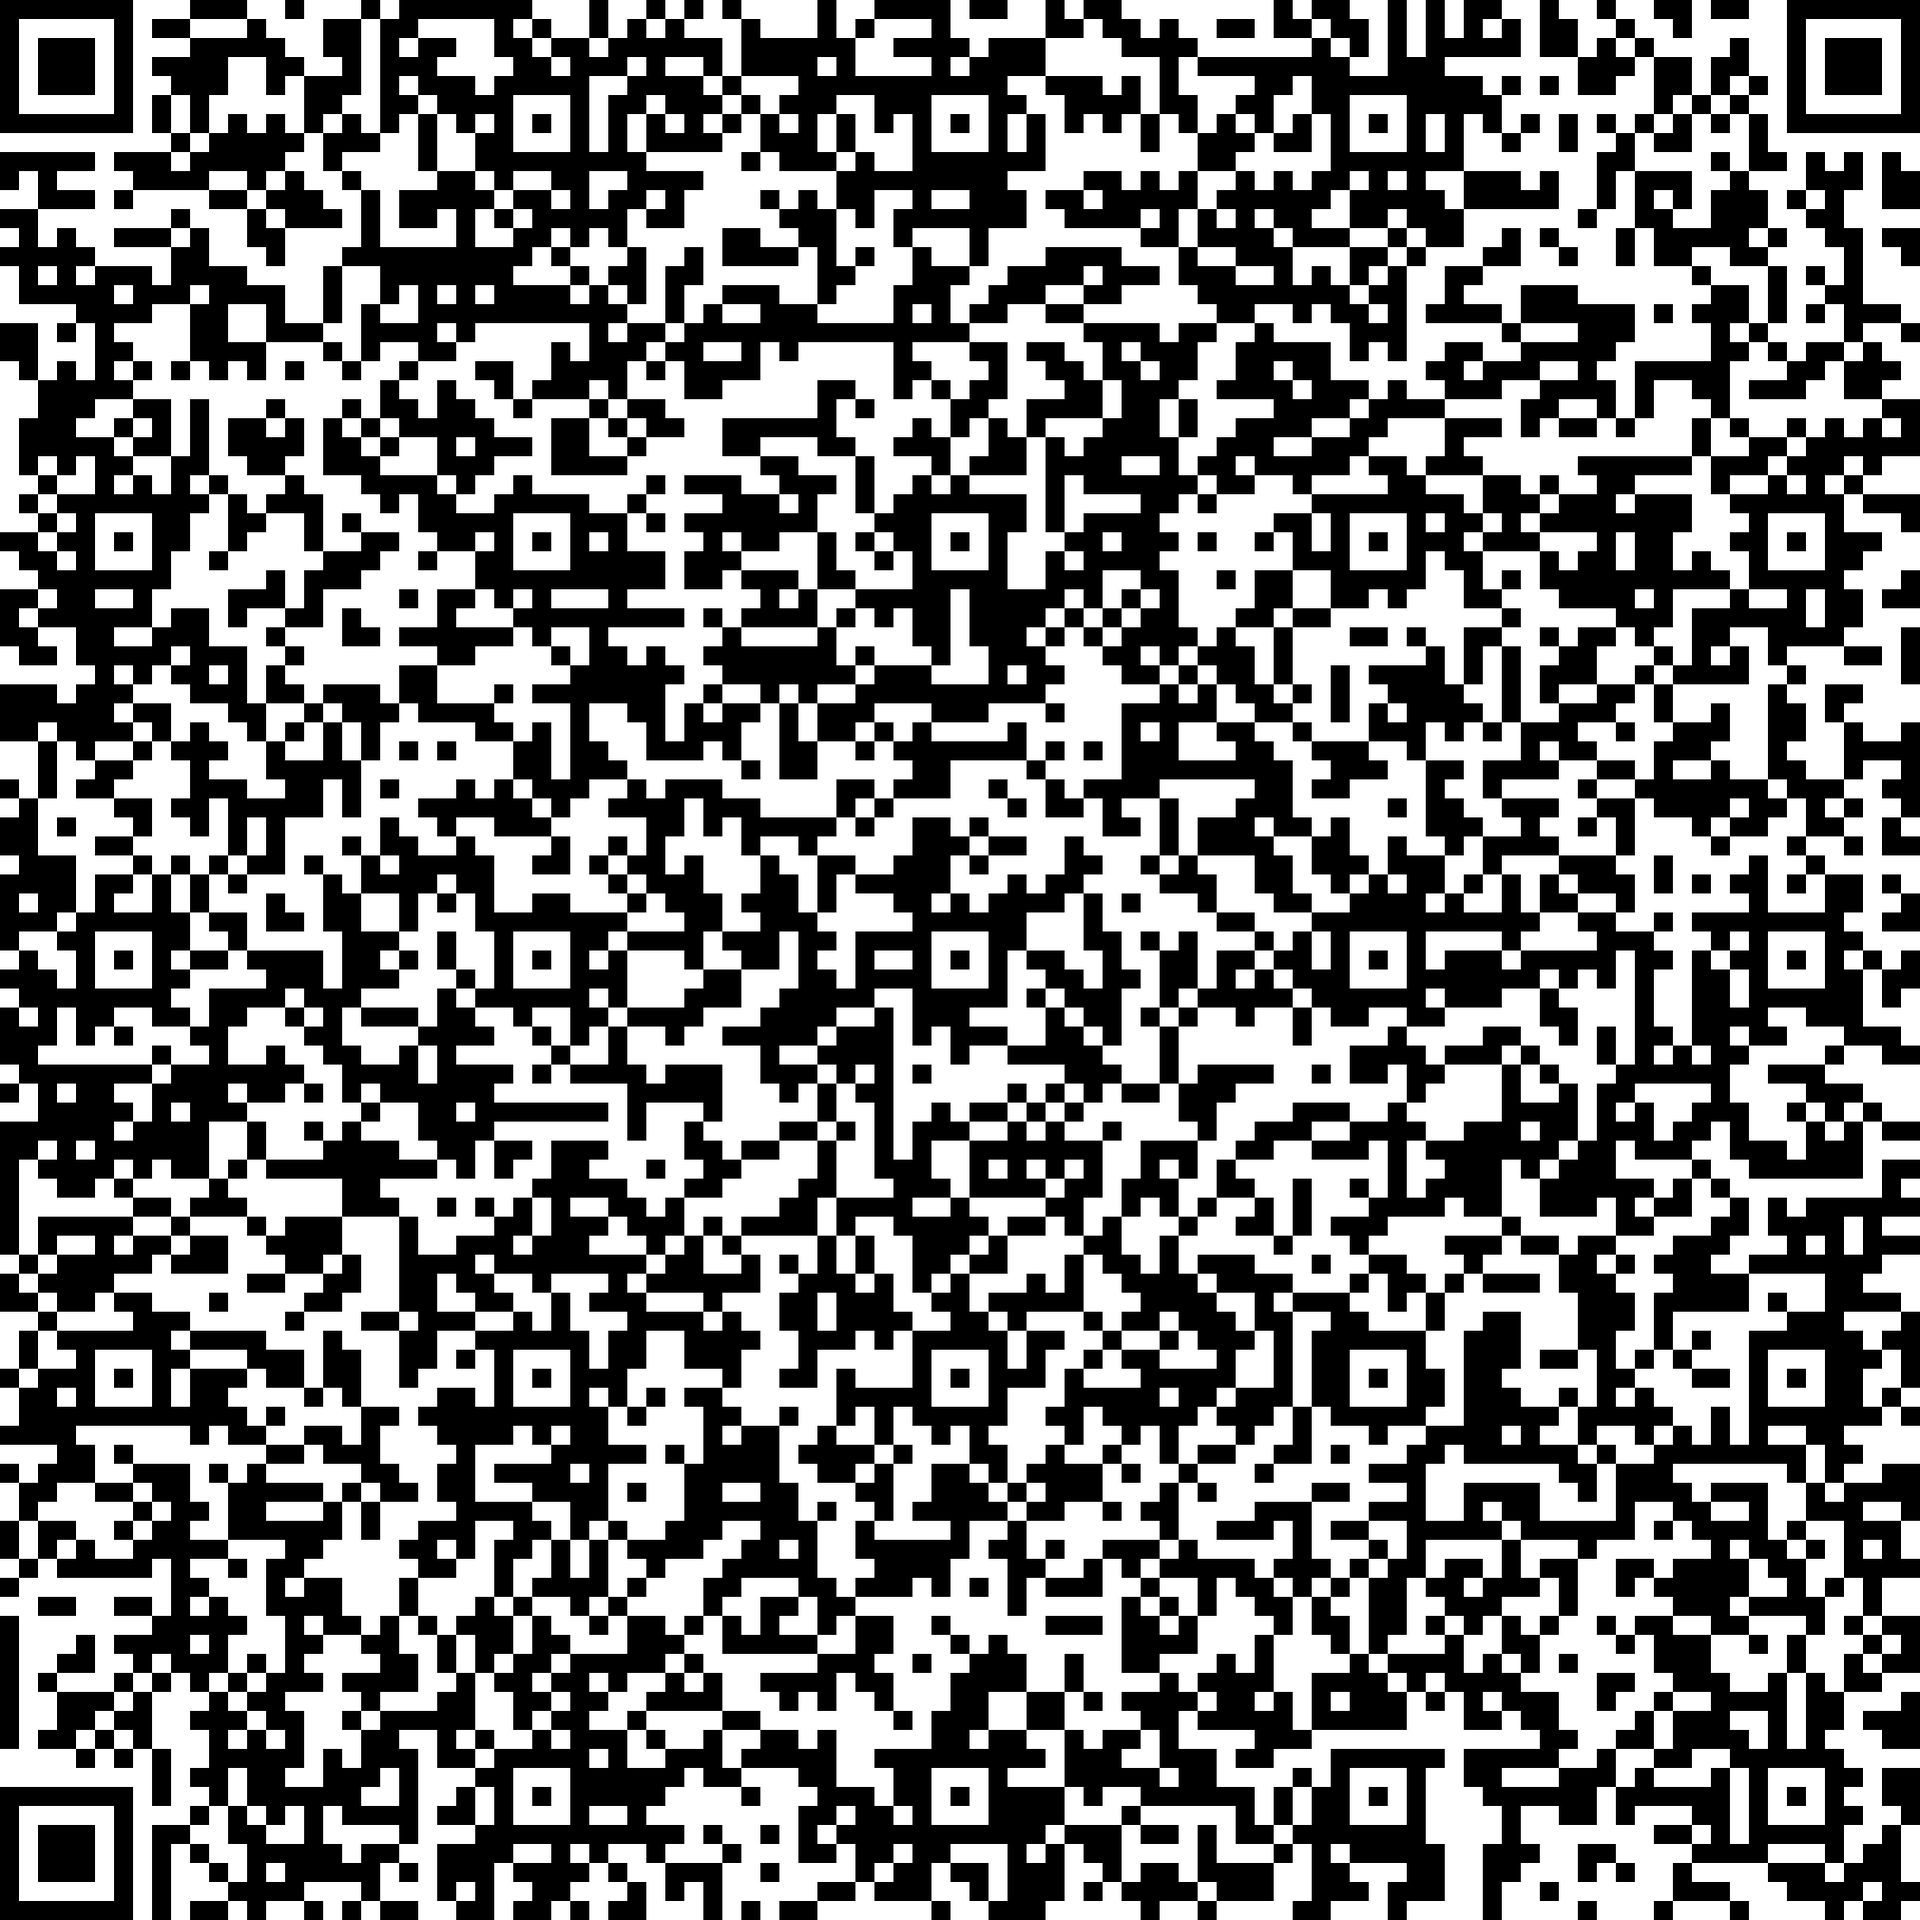
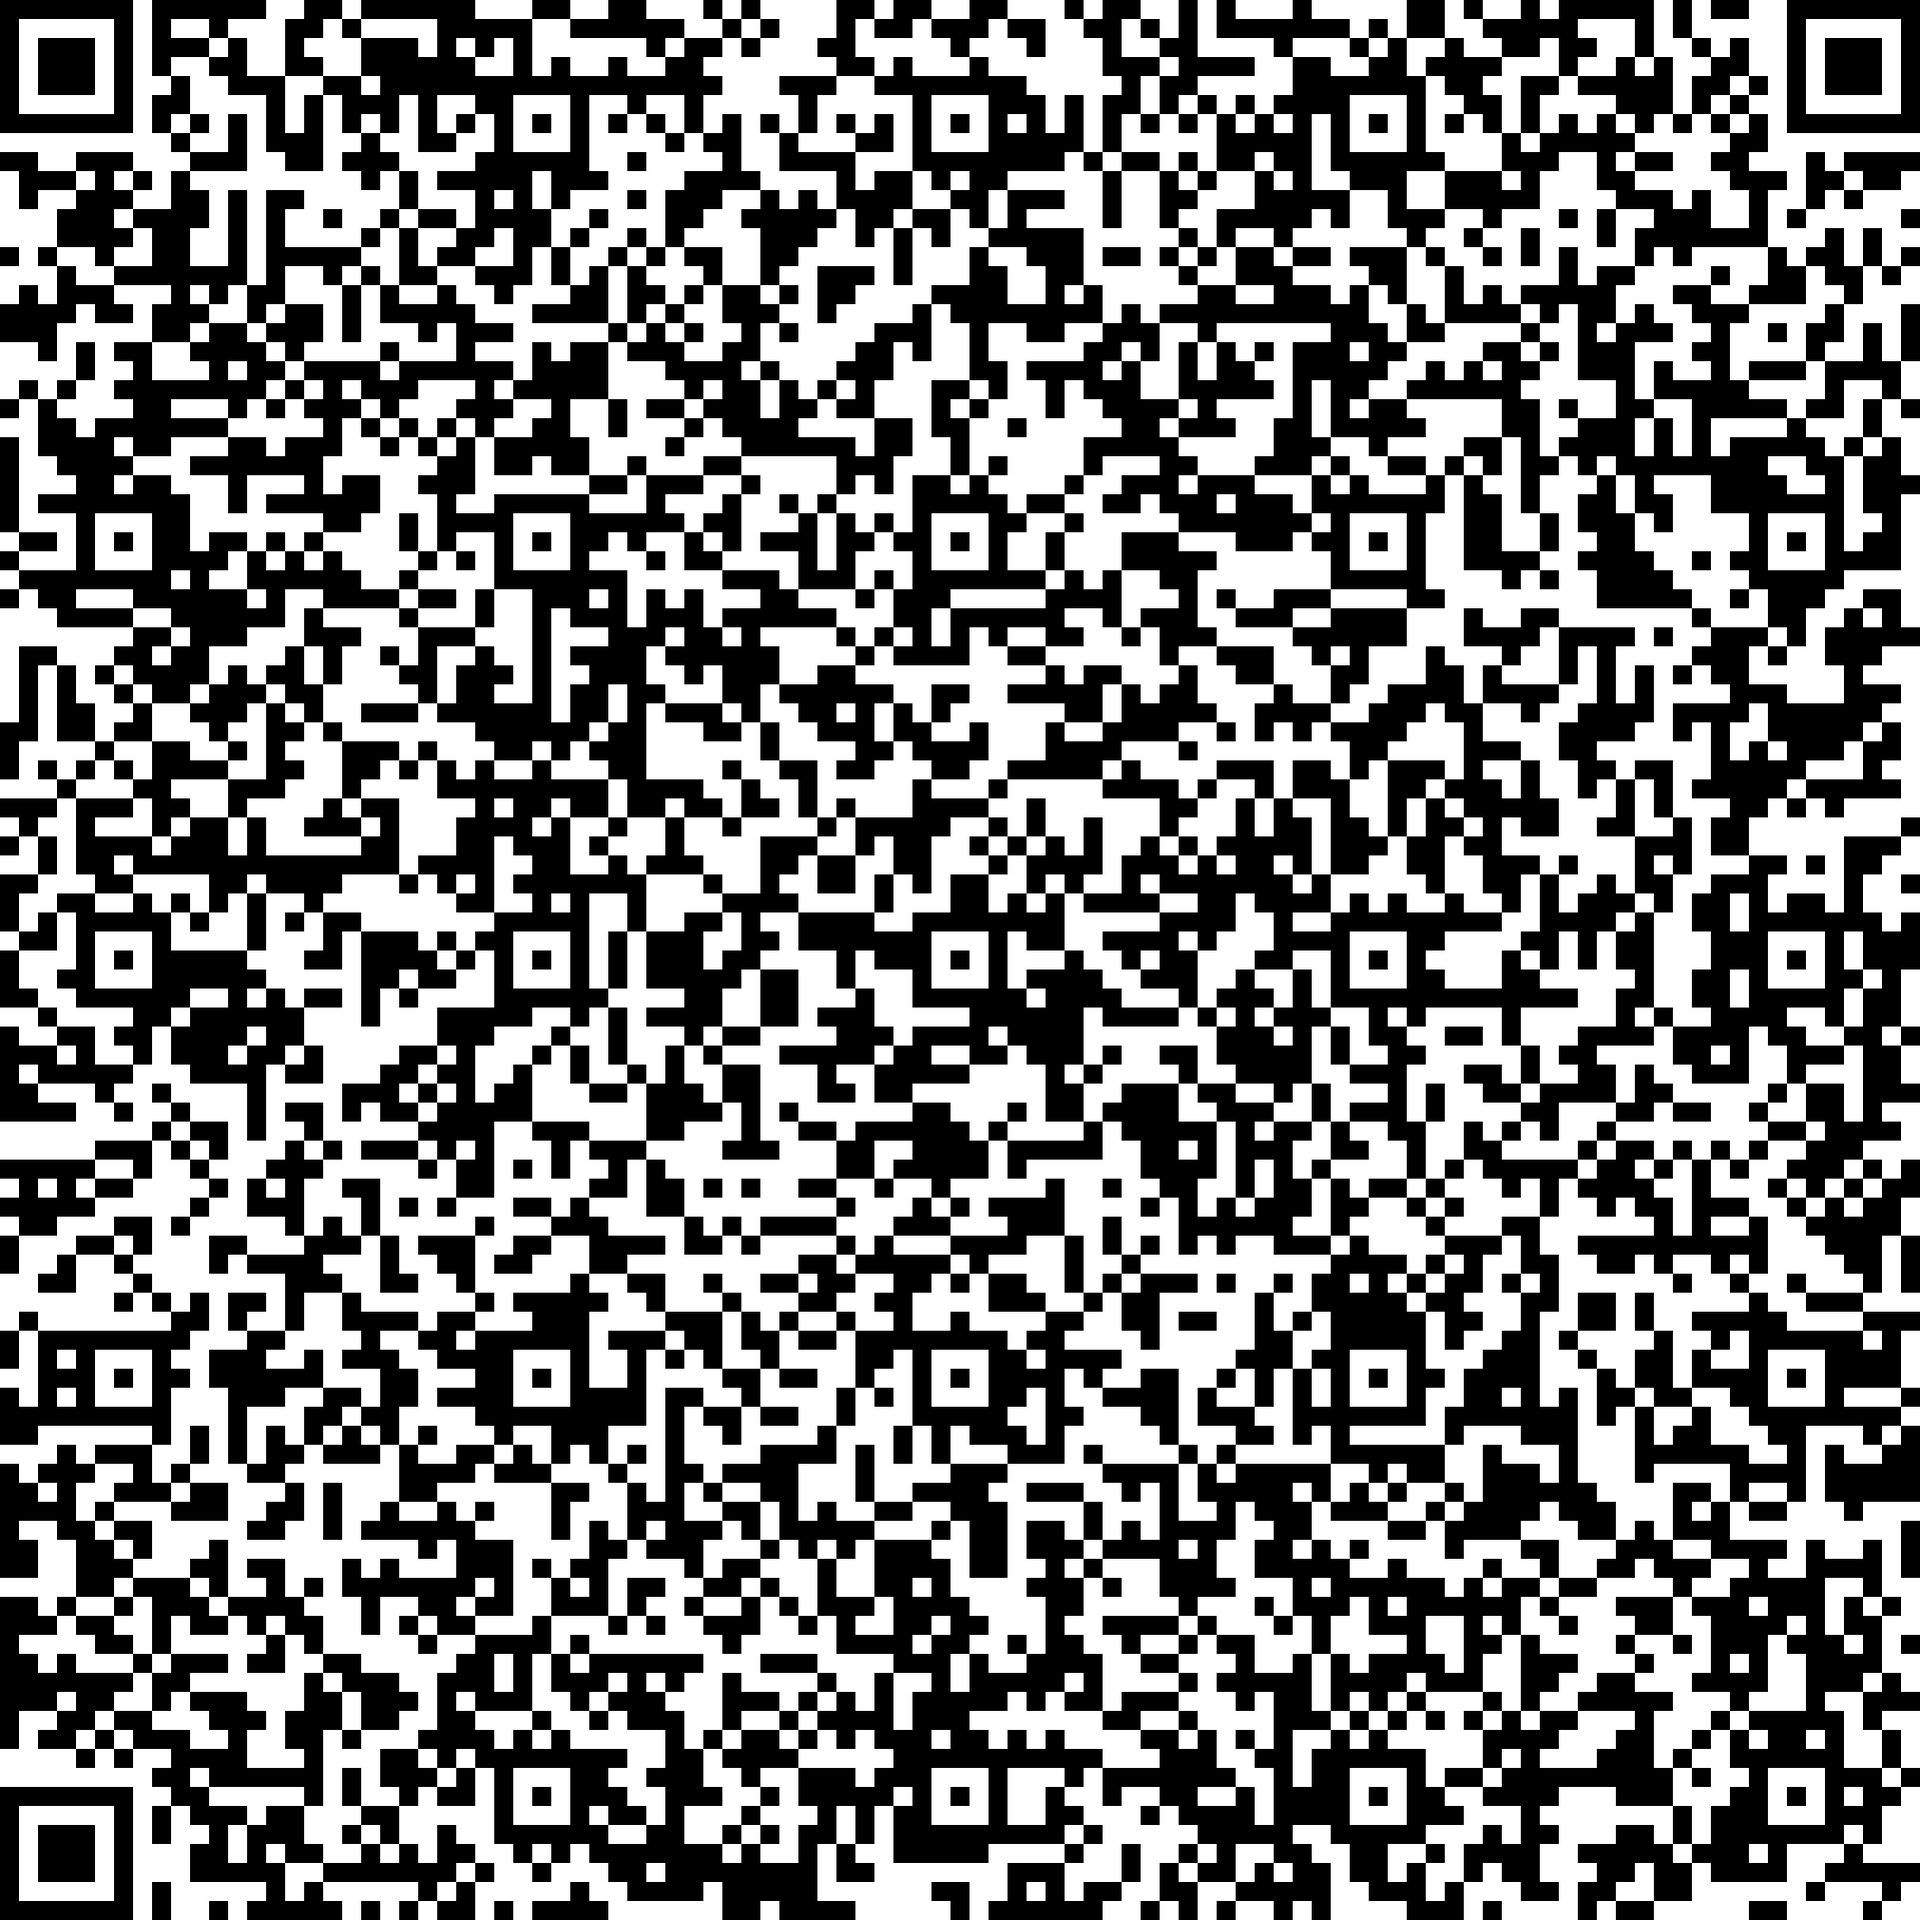
update to https

diff --git a/index.html b/index.html
@@ -10,7 +10,8 @@
     <meta name="keywords" content="moez,bouhlel,lejenome,bmoez,bmoezj,bmoez.j,personal,website" />
     <meta name="viewport" content="initial-scale=1.0, maximum-scale=1.0, user-scalable=no" />
     <meta name="author" content="Moez Bouhlel" />
-    <!--<base href="http://lejenome.github.io/" />-->
+    <link rel="canonical" href="https://lejenome.github.io" />
+    <!--<base href="https://lejenome.github.io/" />-->
     <!-- google verification, should kept -->
     <meta name="google-site-verification" content="S6sLGAfoubJHu5uLGJMU9sOD82LL7APn_EYSZQPOXsE" />
     <!-- openid -->
@@ -34,10 +35,10 @@
     <meta itemprop="inLanguage" content="en" />
     <meta itemprop="applicationCategory" content="Website" />
 
-    <meta property="og:url" itemprop="url" content="http://lejenome.github.io/" />
-    <meta name="twitter:description" property="og:description" itemprop="description" content="Moez Bouhlel (lejenome) Personal Website">
+    <meta property="og:url" itemprop="url" content="https://lejenome.github.io/" />
+    <meta name="twitter:description" property="og:description" itemprop="description" content="Moez Bouhlel Personal Website">
     <meta name="twitter:title" property="og:title" content="Moez Bouhlel (lejenome)" />
-    <meta name="twitter:image" property="og:image" itemprop="image primaryImageOfPage" content="http://lejenome.github.io/logo.png">
+    <meta name="twitter:image" property="og:image" itemprop="image primaryImageOfPage" content="https://lejenome.github.io/logo.png">
     <meta itemprop="applicationSubCategory" content="Website,Blog" />
     <!-- import css -->
     <link href="css/normalize.css" type="text/css" rel="stylesheet"></link>
@@ -47,7 +48,7 @@
 
 <body class="container">
     <header>
-        <h1><a href="http://lejenome.github.io">Moez Bouhlel <small>@lejenome</small></a></h1>
+        <h1><a href="https://lejenome.github.io">Moez Bouhlel <small>@lejenome</small></a></h1>
         <nav>
             <ul>
                 <li><a href="https://twitter.com/lejenome">Twitter</a></li>

diff --git a/card.html b/card.html
@@ -34,7 +34,7 @@
                     <span class="fa-stack"><i class="fa fa-circle fa-stack-2x"></i><i class="fa fa-envelope fa-stack-1x fa-inverse"></i></span> bmoez.j@gmail.com</a>
             </li>
             <li>
-                <a href="http://lejenome.github.io/">
+                <a href="https://lejenome.github.io/">
                     <span class="fa-stack"><i class="fa fa-circle fa-stack-2x"></i><i class="fa fa-globe fa-stack-1x fa-inverse"></i></span> lejenome.github.io</a>
             </li>
             <li>
